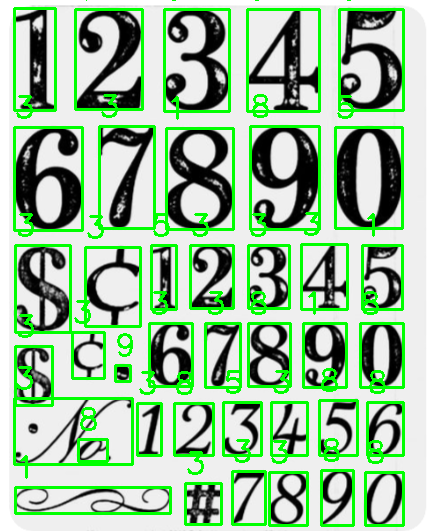
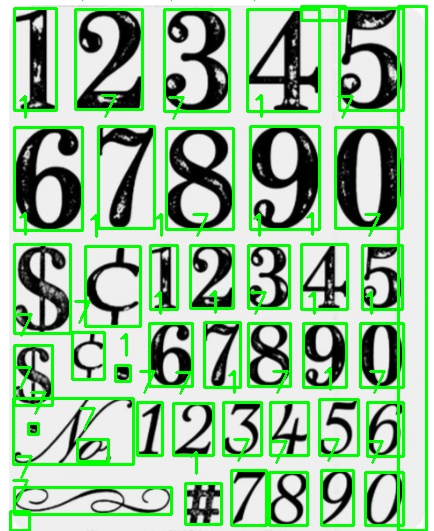
better output ui

diff --git a/test_model.py b/test_model.py
@@ -5,6 +5,7 @@ import cv2
 import numpy as np
 from PIL import Image
 import matplotlib.pyplot as plt
+import os
 
 # ✅ Define the CNN Model
 class DigitRecognizerCNN(nn.Module):
@@ -22,7 +23,7 @@ class DigitRecognizerCNN(nn.Module):
             nn.Flatten(),
             nn.Linear(64 * 7 * 7, 128),
             nn.ReLU(),
-            nn.Linear(128, 10)
+            nn.Linear(128, 10)  # 10 output classes (digits 0-9)
         )
 
     def forward(self, x):
@@ -31,6 +32,11 @@ class DigitRecognizerCNN(nn.Module):
 # ✅ Load Model
 model = DigitRecognizerCNN()
 model_path = "model/digitRecognizer.pth"
+
+# Ensure model file exists
+if not os.path.exists(model_path):
+    raise FileNotFoundError(f"❌ Model file '{model_path}' not found!")
+
 checkpoint = torch.load(model_path, map_location=torch.device('cpu'))
 model.load_state_dict(checkpoint['model'], strict=False)
 model.eval()
@@ -58,24 +64,20 @@ def predict_digit(digit_img):
         prediction = torch.argmax(output, dim=1).item()
     return prediction
 
-import os
-
-image_path = "images/multi_digit.png"
-
-if not os.path.exists(image_path):
-    print(f"❌ Error: Image file '{image_path}' not found!")
-else:
-    print(f"✅ Image file '{image_path}' found.")
-
-
 # ✅ Detect and Segment Digits
 def segment_and_classify(image_path):
     """Detect, extract, and classify multiple digits in an image."""
+    if not os.path.exists(image_path):
+        raise FileNotFoundError(f"❌ Image file '{image_path}' not found!")
+    
+    print(f"✅ Image file '{image_path}' found.")
+
     # Load image in grayscale
     image = cv2.imread(image_path, cv2.IMREAD_GRAYSCALE)
 
-    # Apply thresholding to make the digits more visible
-    _, thresh = cv2.threshold(image, 128, 255, cv2.THRESH_BINARY_INV)
+    # Apply adaptive thresholding for better digit detection
+    thresh = cv2.adaptiveThreshold(image, 255, cv2.ADAPTIVE_THRESH_GAUSSIAN_C,
+                                   cv2.THRESH_BINARY_INV, 11, 3)
 
     # Find contours (possible digit regions)
     contours, _ = cv2.findContours(thresh, cv2.RETR_EXTERNAL, cv2.CHAIN_APPROX_SIMPLE)
@@ -87,7 +89,7 @@ def segment_and_classify(image_path):
     for contour in contours:
         x, y, w, h = cv2.boundingRect(contour)
 
-        # Ignore small regions (noise)
+        # Ignore small regions (noise) and non-digit-like shapes
         if w < 10 or h < 10:
             continue
 
@@ -116,9 +118,13 @@ def segment_and_classify(image_path):
                     cv2.FONT_HERSHEY_SIMPLEX, 1, (0, 255, 0), 2)
 
     # Save and show the result
-    cv2.imwrite("output.png", output_image)
-    plt.imshow(output_image, cmap="gray")
+    output_path = "output.png"
+    cv2.imwrite(output_path, output_image)
+    print(f"📸 Output saved as '{output_path}'")
+
+    plt.imshow(cv2.cvtColor(output_image, cv2.COLOR_BGR2RGB))
     plt.title(f"Predicted Digits: {''.join(str(d) for _, d in digit_predictions)}")
+    plt.axis("off")
     plt.show()
 
     return ''.join(str(d) for _, d in digit_predictions)
